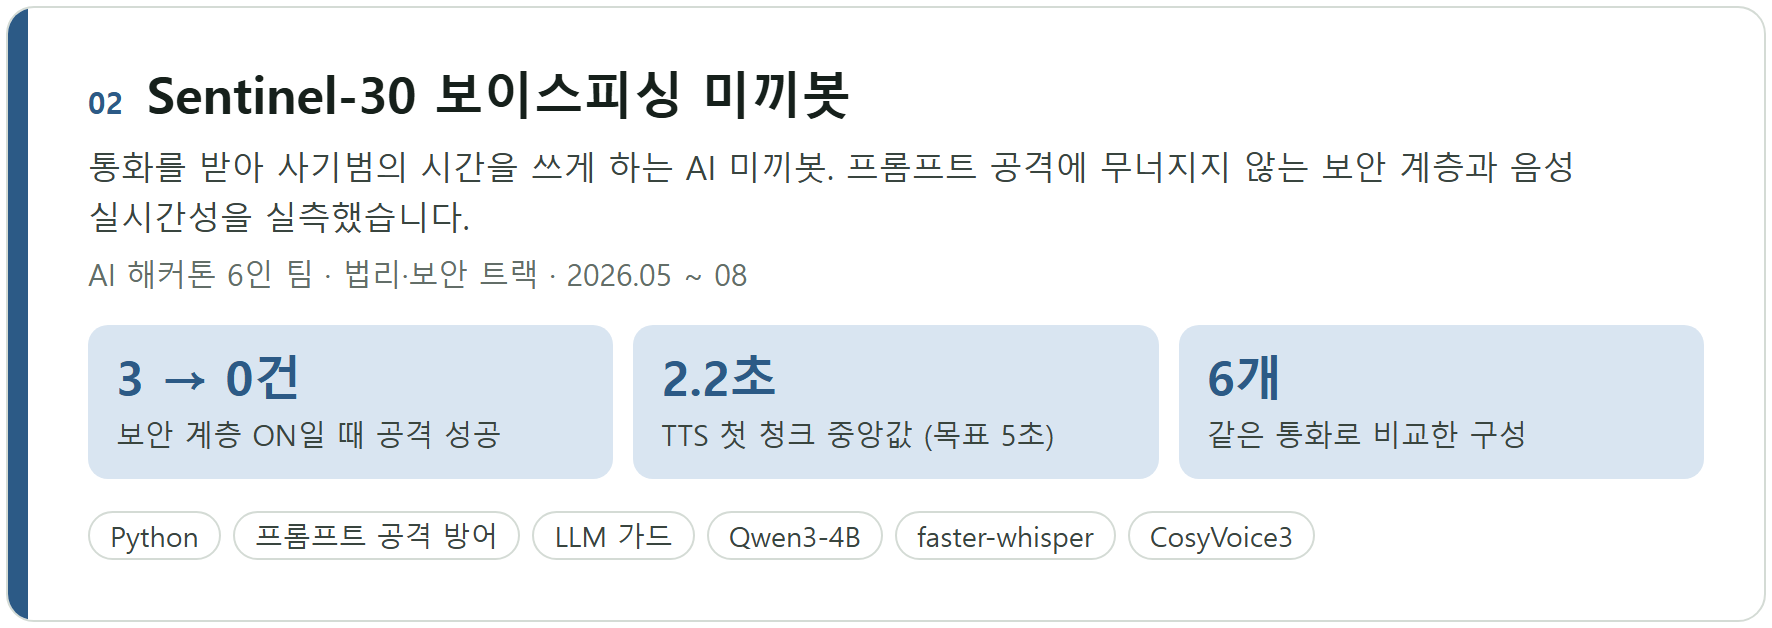
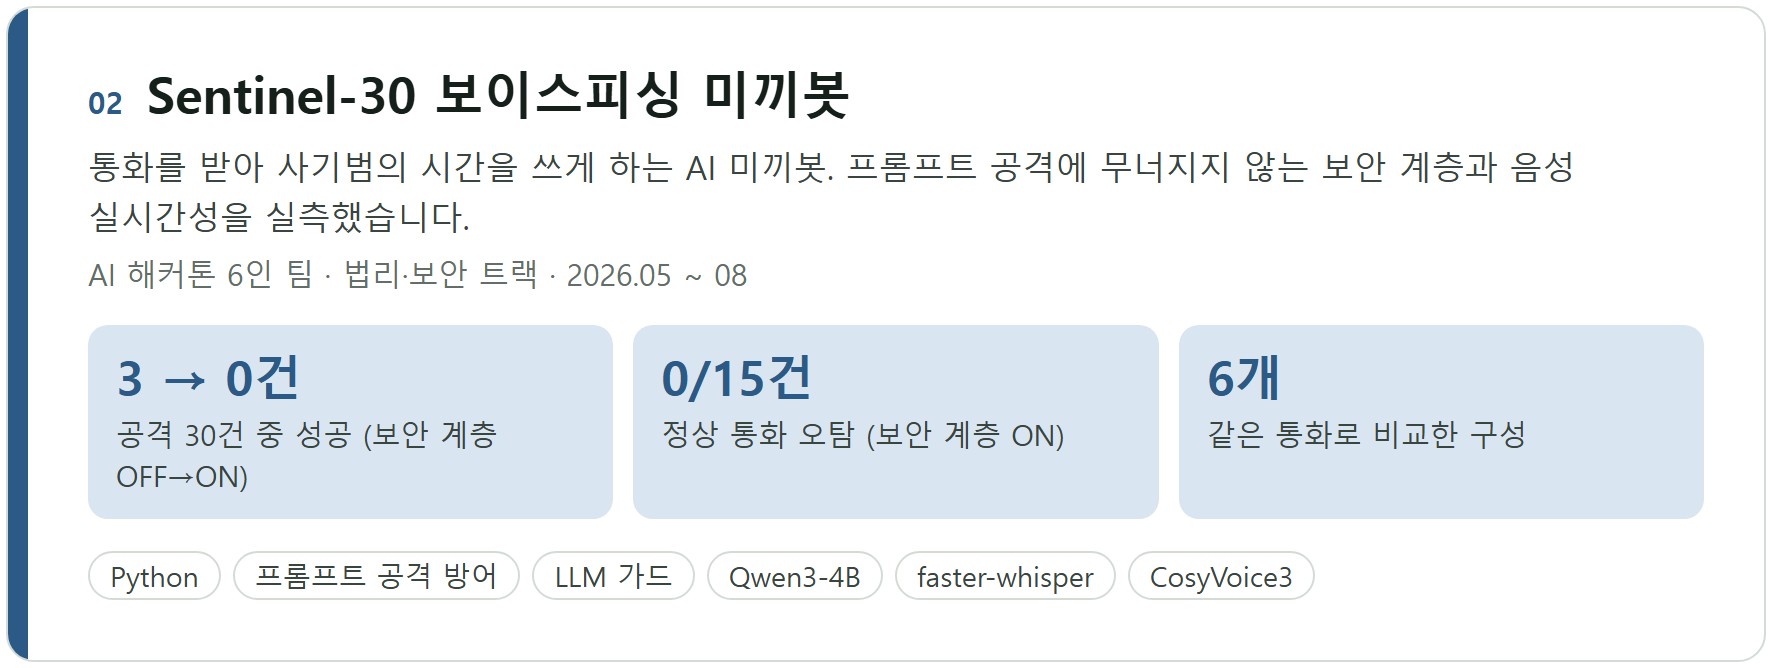
포트폴리오: 수치 서술을 원본과 맞추고 휴대폰용 카드 추가
원본 레포와 수치를 다시 대조해 조건이 어긋난 서술을 고쳤다.
- KeyFin: 라우팅 94.5%는 기존 프롬프트 3,128문항, 96.2%는 새 프롬프트 4,969문항임을 밝힘.
  지연 비교 조건을 NF4+transformers → FP8+vLLM으로 정정, Chronos-2 WAPE 범위 70.17~75.90%
- Sentinel-30 카드: 5초 목표를 달성한 것처럼 읽히던 'TTS 첫 청크 2.2초' 대신 정상 통화 오탐 0/15건,
  공격 성공에 분모(30건) 표기
- CCTV: ReID 결과 JSON 7개 전부 그림에 반영(SOLIDER 최댓값 추가), 기준선과 수치 글자 겹침 해소
- AntHill: 커밋 수 기준일(7월), CI 결과(111개 중 104개 통과) 추가, 카드 설명 정밀화
- Strategy Arena 카드: '0개'를 사전등록 후보 4개 기준(0/4개)으로 명시
- 품질 도구: 카이제곱이 4지선다 기준(A~D 각 25%)임을 바로잡음

화면 폭 600px 이하에서는 세로형 카드(m01~m06)와 칩형 역량 지도를 보여 준다.

diff --git a/src/cards.py b/src/cards.py
@@ -1,7 +1,9 @@
 """포트폴리오 README용 프로젝트 카드와 역량 지도. 880 CSS px로 그려 2배 렌더한다(GitHub 본문 1:1).
+휴대폰용(m0N, skill_map_m)은 400 CSS px 세로형으로 따로 그린다. README는 <picture>로 폭 600px 이하에서 이쪽을 보여 준다.
 
 실행: python cards.py → out/*.html, 이어서 sh render.sh → out/*.png (assets/cards/에 복사)
 """
+import re
 from pathlib import Path
 
 OUT = Path(__file__).parent / "out"
@@ -11,6 +13,7 @@ C = dict(ink="#16201B", ink2="#39453F", muted="#636E68", rule="#D4DBD5", track="
 CSS = f"""*{{box-sizing:border-box}} html,body{{margin:0;background:#fff}}
 body{{font-family:"Malgun Gothic","Apple SD Gothic Neo",sans-serif;color:{C['ink']};-webkit-font-smoothing:antialiased;word-break:keep-all}}
 .card{{width:880px;margin:14px;padding:26px 30px 24px;border:1px solid {C['rule']};border-radius:14px;background:#fff;position:relative;overflow:hidden}}
+.card.m{{width:400px;padding:20px 20px 16px 30px}}
 """
 
 
@@ -56,38 +59,78 @@ def skill_map(name, projects, skills, marks):
     page(name, body)
 
 
+def project_card_m(name, no, title, line, role, period, kpis, tags, color, soft):
+    """휴대폰용 세로 카드: 핵심 수치를 한 줄씩 쌓는다."""
+    k = "".join(
+        f'<div style="display:flex;align-items:baseline;gap:12px;background:{soft};border-radius:9px;padding:9px 12px;margin-bottom:7px">'
+        f'<div style="font-size:21px;font-weight:700;color:{color};white-space:nowrap;min-width:92px">{v}</div>'
+        f'<div style="font-size:15px;color:{C["ink2"]};line-height:1.4">{t}</div></div>' for v, t in kpis)
+    tg = "".join(f'<span style="display:inline-block;font-size:14px;color:{C["ink2"]};border:1px solid {C["rule"]};border-radius:999px;padding:1px 9px;margin:0 5px 5px 0">{t}</span>' for t in tags)
+    body = (f'<div class="card m"><div style="position:absolute;left:0;top:0;bottom:0;width:8px;background:{color}"></div>'
+            f'<div style="font-size:14px;font-weight:700;color:{color}">{no}</div>'
+            f'<div style="font-size:22px;font-weight:700;line-height:1.3;margin-top:2px">{title}</div>'
+            f'<div style="font-size:16px;color:{C["ink2"]};margin:8px 0 6px;line-height:1.5">{line}</div>'
+            f'<div style="font-size:14px;color:{C["muted"]};margin-bottom:12px">{role} · {period}</div>'
+            f'{k}<div style="margin-top:9px">{tg}</div></div>')
+    page(name, body)
+
+
+def skill_map_m(name, projects, skills, marks):
+    """휴대폰용 역량 지도: 프로젝트마다 핵심(채운 칩)·일부(테두리 칩) 역량을 나열한다."""
+    rows = ""
+    for p, color in projects:
+        chips = ""
+        for lvl in (2, 1):
+            for sk in skills:
+                if marks.get((p, sk), 0) == lvl:
+                    label = re.sub(r"<br>(?!·)", " ", sk).replace("<br>", "")
+                    style = (f"background:{color};color:#fff;border:1.5px solid {color}" if lvl == 2 else
+                             f"background:#fff;color:{C['ink2']};border:1.5px solid {color}")
+                    chips += f'<span style="display:inline-block;font-size:13.5px;border-radius:999px;padding:2px 10px;margin:0 5px 6px 0;{style}">{label}</span>'
+        rows += (f'<div style="padding:10px 0 4px;border-top:1px solid {C["track"]}"><div style="font-size:16px;font-weight:700;margin-bottom:7px">'
+                 f'<span style="display:inline-block;width:10px;height:10px;border-radius:2px;background:{color};margin-right:8px"></span>{p}</div>{chips}</div>')
+    body = (f'<div class="card m" style="padding-left:20px"><div style="font-size:21px;font-weight:700;margin-bottom:4px">프로젝트별로 다룬 역량</div>'
+            f'<div style="font-size:14px;color:{C["muted"]};margin-bottom:12px">채운 칩은 핵심으로 다룬 역량, 테두리 칩은 일부 다룬 역량입니다.</div>{rows}</div>')
+    page(name, body)
+
 
 # ---------------------------------------------------------------- 프로젝트 카드
-project_card("p01", "01", "KeyFin AI 코칭",
-             "봉투 예산 앱의 AI 금융 코치. LLM은 의도만 고르고 금액·확률·기간은 시뮬레이터와 서버 코드가 계산합니다.",
-             "팀 프로젝트 · AI 코칭 API 전담", "2026.08 ~ 09",
-             [("9.1배", "동시 8건 응답 49.07초 → 5.40초"), ("96.2%", "운영 모델 실측 라우팅 정확도"), ("2,519개", "AI 코칭 테스트 통과")],
-             ["Python", "FastAPI", "vLLM", "Qwen3.8-27B FP8", "의도 라우팅", "대규모 검증"], C["accent"], C["accent_soft"])
-project_card("p06", "06", "AI 결과 품질 게이트와 운영 설계",
-             "AI가 만든 문항의 AI 티를 규칙으로 잡는 검증기와, 생성형 AI를 업무에 붙일 때의 경계·역할·루프 설계 문서입니다.",
-             "개인 프로젝트", "2026.05 ~ 08",
-             [("11개", "보정한 HARD·SOFT 규칙"), ("10/10", "공식 샘플의 HARD 통과"), ("15개", "운영 구조로 정리한 프로젝트")],
-             ["Python", "휴리스틱 검증", "카이제곱", "하네스 설계", "Mermaid"], "#5B5F97", "#E3E4F1")
-project_card("p02", "02", "Sentinel-30 보이스피싱 미끼봇",
-             "통화를 받아 사기범의 시간을 쓰게 하는 AI 미끼봇. 프롬프트 공격에 무너지지 않는 보안 계층과 음성 실시간성을 실측했습니다.",
-             "AI 해커톤 6인 팀 · 법리·보안 트랙", "2026.05 ~ 08",
-             [("3 → 0건", "보안 계층 ON일 때 공격 성공"), ("2.2초", "TTS 첫 청크 중앙값 (목표 5초)"), ("6개", "같은 통화로 비교한 구성")],
-             ["Python", "프롬프트 공격 방어", "LLM 가드", "Qwen3-4B", "faster-whisper", "CosyVoice3"], C["info"], C["info_soft"])
-project_card("p03", "03", "CCTV 후보 모델 선정과 승격 게이트",
-             "모델 점수 하나 대신 역할별 후보를 같은 조건으로 비교하고, 승격은 증거를 검사하는 게이트 코드가 정합니다.",
-             "AIoT 팀 프로젝트 · AI 모델 선정 담당", "2026.07 ~ 08",
-             [("6개", "같은 조건으로 비교한 ReID 구성"), ("0건", "증거 없이 승격된 후보"), ("8,949개", "SHA-256 검증 후 보존한 파일")],
-             ["PyTorch", "SOLIDER", "CLIP ViT-L/14", "ReID", "지식 증류", "승격 게이트"], C["warn"], C["warn_soft"])
-project_card("p04", "04", "AntHill 주식 판단 트레이닝",
-             "AI가 정답을 알려주지 않는 투자 판단 훈련 서비스. 규칙 엔진이 방향을 정하고 LLM은 근거 문장만 씁니다.",
-             "개인 중심 · 커밋 156건 중 140건 작성", "2026.05 ~ 07",
-             [("3계층", "방향은 규칙, 설명은 LLM"), ("87.2%", "직접 라벨링 172건 감성 정확도"), ("14,473개", "매핑한 국내·해외 종목")],
-             ["Django 5.2", "DRF", "SimpleJWT", "OpenRouter", "Canvas 2D", "Playwright"], C["tan"], "#F1E6D6")
-project_card("p05", "05", "Strategy Arena 백테스트 검증",
-             "백테스트 곡선이 성과로 읽히지 않도록 사전등록, 시간순 홀드아웃, 비용, 시행 횟수 보정을 얹은 전략 빌더입니다.",
-             "개인 프로젝트", "2026.07 ~ 08",
-             [("19개", "후보마다 거치는 검증 게이트"), ("0개", "비용 후 신뢰할 승자"), ("40/40", "데이터 절단 버그 교정 후 정합 종목")],
-             ["Python", "Flask", "pandas", "사전등록", "홀드아웃", "DSR"], "#4E6E8E", "#DFE7EF")
+# (이름, 번호, 제목, 한 줄 소개, 역할, 기간, 핵심 수치 3개, 태그, 색, 옅은 색)
+CARDS = [
+    ("p01", "01", "KeyFin AI 코칭",
+     "봉투 예산 앱의 AI 금융 코치. LLM은 의도만 고르고 금액·확률·기간은 시뮬레이터와 서버 코드가 계산합니다.",
+     "팀 프로젝트 · AI 코칭 API 전담", "2026.08 ~ 09",
+     [("9.1배", "동시 8건 응답 49.07초 → 5.40초"), ("96.2%", "운영 모델 실측 라우팅 정확도"), ("2,519개", "AI 코칭 테스트 통과")],
+     ["Python", "FastAPI", "vLLM", "Qwen3.8-27B FP8", "의도 라우팅", "대규모 검증"], C["accent"], C["accent_soft"]),
+    ("p06", "06", "AI 결과 품질 게이트와 운영 설계",
+     "AI가 만든 문항의 AI 티를 규칙으로 잡는 검증기와, 생성형 AI를 업무에 붙일 때의 경계·역할·루프 설계 문서입니다.",
+     "개인 프로젝트", "2026.05 ~ 08",
+     [("11개", "보정한 HARD·SOFT 규칙"), ("10/10", "공식 샘플의 HARD 통과"), ("15개", "운영 구조로 정리한 프로젝트")],
+     ["Python", "휴리스틱 검증", "카이제곱", "하네스 설계", "Mermaid"], "#5B5F97", "#E3E4F1"),
+    ("p02", "02", "Sentinel-30 보이스피싱 미끼봇",
+     "통화를 받아 사기범의 시간을 쓰게 하는 AI 미끼봇. 프롬프트 공격에 무너지지 않는 보안 계층과 음성 실시간성을 실측했습니다.",
+     "AI 해커톤 6인 팀 · 법리·보안 트랙", "2026.05 ~ 08",
+     [("3 → 0건", "공격 30건 중 성공 (보안 계층 OFF→ON)"), ("0/15건", "정상 통화 오탐 (보안 계층 ON)"), ("6개", "같은 통화로 비교한 구성")],
+     ["Python", "프롬프트 공격 방어", "LLM 가드", "Qwen3-4B", "faster-whisper", "CosyVoice3"], C["info"], C["info_soft"]),
+    ("p03", "03", "CCTV 후보 모델 선정과 승격 게이트",
+     "모델 점수 하나 대신 역할별 후보를 같은 조건으로 비교하고, 승격은 증거를 검사하는 게이트 코드가 정합니다.",
+     "AIoT 팀 프로젝트 · AI 모델 선정 담당", "2026.07 ~ 08",
+     [("7개", "같은 조건으로 비교한 ReID 구성"), ("0건", "증거 없이 승격된 후보"), ("8,949개", "SHA-256 검증 후 보존한 파일")],
+     ["PyTorch", "SOLIDER", "CLIP ViT-L/14", "ReID", "지식 증류", "승격 게이트"], C["warn"], C["warn_soft"]),
+    ("p04", "04", "AntHill 주식 판단 트레이닝",
+     "AI가 정답을 알려주지 않는 투자 판단 훈련 서비스. 규칙 엔진이 방향을 정하고 LLM은 근거 문장만 씁니다.",
+     "개인 중심 · 커밋 156건 중 140건 작성(7월 기준)", "2026.05 ~ 07",
+     [("3계층", "규칙이 방향, LLM이 설명, 실패하면 규칙 문장"), ("87.2%", "직접 라벨링 172건 감성 정확도 (보정 표본 포함)"), ("14,473개", "적재한 국내·해외 종목")],
+     ["Django 5.2", "DRF", "SimpleJWT", "OpenRouter", "Canvas 2D", "Playwright"], C["tan"], "#F1E6D6"),
+    ("p05", "05", "Strategy Arena 백테스트 검증",
+     "백테스트 곡선이 성과로 읽히지 않도록 사전등록, 시간순 홀드아웃, 비용, 시행 횟수 보정을 얹은 전략 빌더입니다.",
+     "개인 프로젝트", "2026.07 ~ 08",
+     [("19개", "후보마다 거치는 검증 게이트"), ("0/4개", "사전등록 후보 중 비용 반영 후 통과"), ("40/40", "데이터 절단 버그 교정 후 정합 종목")],
+     ["Python", "Flask", "pandas", "사전등록", "홀드아웃", "DSR"], "#4E6E8E", "#DFE7EF"),
+]
+for c in CARDS:
+    project_card(*c)
+    project_card_m("m" + c[0][1:], *c[1:])
 
 PJ = [("KeyFin AI 코칭", C["accent"]), ("Sentinel-30", C["info"]), ("CCTV 모델 선정", C["warn"]), ("AntHill", C["tan"]),
       ("Strategy Arena", "#4E6E8E"), ("AI 품질 게이트", "#5B5F97")]
@@ -97,4 +140,5 @@ for pj, vals in zip([p for p, _ in PJ], [(2, 2, 2, 1, 2, 0), (2, 2, 1, 0, 1, 2),
     for sk, v in zip(SK, vals):
         M[(pj, sk)] = v
 skill_map("skill_map", PJ, SK, M)
+skill_map_m("skill_map_m", PJ, SK, M)
 print("html:", len(list(OUT.glob("*.html"))))

diff --git a/src/figs.py b/src/figs.py
@@ -90,24 +90,27 @@ page("c_flow", card("모델 점수 대신 증거로 승격을 정하는 흐름",
                     "역할마다 후보를 따로 비교하고, 승격은 사람이 표를 읽는 대신 게이트 코드가 증거로 판정합니다.", canvas(820, 382, n, s)))
 
 # c2. strict ReID
-RE = [("SOLIDER Top-3 평균", 0.47, 0.78, True), ("SOLIDER Top-5 평균", 0.45, 0.76, False), ("SOLIDER 전체 평균", 0.42, 0.84, False),
+RE = [("SOLIDER Top-3 평균", 0.47, 0.78, True), ("SOLIDER 최댓값", 0.46, 0.78, False), ("SOLIDER Top-5 평균", 0.45, 0.76, False), ("SOLIDER 전체 평균", 0.42, 0.84, False),
       ("SigLIP2", 0.29, 0.64, False), ("CLIP ViT-L/14", 0.21, 0.61, False), ("DINOv2", 0.19, 0.60, False)]
 X0, PW = 190, 560
 xv = lambda v: X0 + v * PW
 s = [ln(xv(g), 40, xv(g), 40 + len(RE) * 62, w=1, end=False).replace(C["ink2"], C["track"]) for g in (0, 0.25, 0.5, 0.75, 1.0)]
 s += [tx(xv(g), 64 + len(RE) * 62, f"{g:g}", col=C["muted"], size=14) for g in (0, 0.25, 0.5, 0.75, 1.0)]
+# 기준선을 먼저 그려 수치 글자가 선 위에 오게 한다
+s += [ln(xv(0.85), 30, xv(0.85), 40 + len(RE) * 62, "warn", 2.5, dash=True, end=False).replace(C["warn"], C["bad"]),
+      tx(xv(0.85), 22, "Rank-1 기준 0.85", col=C["bad"], size=14, bold=True, anchor="end"),
+      ln(xv(0.95), 30, xv(0.95), 40 + len(RE) * 62, "warn", 2.5, dash=True, end=False),
+      tx(xv(0.95) + 4, 22, "Recall@5 0.95", col=C["warn"], size=14, bold=True, anchor="start")]
 for i, (lab, r1, r5, best) in enumerate(RE):
     y = 48 + i * 62
     s.append(tx(X0 - 14, y + 26, lab, col=C["ink"], size=15.5, anchor="end", bold=best))
     s.append(f'<rect x="{X0}" y="{y}" width="{r1 * PW:.1f}" height="22" rx="4" fill="{C["info"]}"/>')
     s.append(f'<rect x="{X0}" y="{y + 24}" width="{r5 * PW:.1f}" height="22" rx="4" fill="#9DBBD9"/>')
     s.append(tx(xv(r1) + 8, y + 17, f"{r1:.2f}", col=C["info"], size=14.5, anchor="start", bold=True))
-    s.append(tx(xv(r5) + 8, y + 41, f"{r5:.2f}", col=C["ink2"], size=14.5, anchor="start", bold=True))
-s += [ln(xv(0.85), 30, xv(0.85), 40 + len(RE) * 62, "warn", 2.5, dash=True, end=False).replace(C["warn"], C["bad"]),
-      tx(xv(0.85), 22, "Rank-1 기준 0.85", col=C["bad"], size=14, bold=True, anchor="end"),
-      ln(xv(0.95), 30, xv(0.95), 40 + len(RE) * 62, "warn", 2.5, dash=True, end=False),
-      tx(xv(0.95) + 4, 22, "Recall@5 0.95", col=C["warn"], size=14, bold=True, anchor="start")]
-page("c_reid", card("strict ReID 6개 구성: 모두 승격 기준 미달",
+    # 막대 끝이 기준선(0.85)에 가까우면 수치를 막대 안쪽 끝에 넣어 선과 겹치지 않게 한다
+    s.append(tx(xv(r5) - 8, y + 41, f"{r5:.2f}", col=C["ink"], size=14.5, anchor="end", bold=True, halo=False) if r5 >= 0.7 else
+             tx(xv(r5) + 8, y + 41, f"{r5:.2f}", col=C["ink2"], size=14.5, anchor="start", bold=True))
+page("c_reid", card(f"strict ReID {len(RE)}개 구성: 모두 승격 기준 미달",
                     "CHIRLA 공개 proxy, 같은 카메라·같은 시퀀스 gallery를 빼고 쟀습니다(query 95개, gallery identity 11개).",
                     legend([("Rank-1", C["info"]), ("Recall@5", "#9DBBD9")]) + canvas(820, 76 + len(RE) * 62, [], s),
                     "가장 높은 SOLIDER Top-3 평균(Rank-1 0.4737)도 기준에 못 미쳐 자동 동일인 매칭은 막고, Top-K 후보 검색에만 쓰기로 했습니다."))

diff --git a/README.md b/README.md
@@ -5,33 +5,33 @@
 - 관심 직무: 금융 IT·디지털 ICT, AI·데이터 제품 엔지니어, AI 기반 서비스 기획
 - 주로 쓰는 기술: Python, FastAPI·Django·Flask, SQL, vLLM, PyTorch, LLM 라우팅과 평가 설계
 
-![프로젝트별로 다룬 역량](assets/cards/skill_map.png)
+<picture><source media="(max-width: 600px)" srcset="https://raw.githubusercontent.com/tttksj404/portfolio/main/assets/cards/skill_map_m.png"><img alt="프로젝트별로 다룬 역량" src="assets/cards/skill_map.png" width="100%"></picture>
 
 ## 사례
 
 카드를 누르면 사례 문서로 이동합니다. 문서는 문제, 내가 한 일과 설계 결정, 결과와 검증, 한계 순서로 정리했습니다.
 
-[![KeyFin AI 코칭](assets/cards/p01.png)](projects/01-keyfin-ai-coaching.md)
+<a href="projects/01-keyfin-ai-coaching.md"><picture><source media="(max-width: 600px)" srcset="https://raw.githubusercontent.com/tttksj404/portfolio/main/assets/cards/m01.png"><img alt="KeyFin AI 코칭" src="assets/cards/p01.png" width="100%"></picture></a>
 
 [사례 문서](projects/01-keyfin-ai-coaching.md) · [팀 저장소 (`ai/` 담당)](https://github.com/tttksj404/KeyFin)
 
-[![Sentinel-30 보이스피싱 미끼봇](assets/cards/p02.png)](projects/02-sentinel-30.md)
+<a href="projects/02-sentinel-30.md"><picture><source media="(max-width: 600px)" srcset="https://raw.githubusercontent.com/tttksj404/portfolio/main/assets/cards/m02.png"><img alt="Sentinel-30 보이스피싱 미끼봇" src="assets/cards/p02.png" width="100%"></picture></a>
 
 [사례 문서](projects/02-sentinel-30.md) · [저장소](https://github.com/tttksj404/AI-)
 
-[![CCTV 후보 모델 선정과 승격 게이트](assets/cards/p03.png)](projects/03-cctv-model-selection.md)
+<a href="projects/03-cctv-model-selection.md"><picture><source media="(max-width: 600px)" srcset="https://raw.githubusercontent.com/tttksj404/portfolio/main/assets/cards/m03.png"><img alt="CCTV 후보 모델 선정과 승격 게이트" src="assets/cards/p03.png" width="100%"></picture></a>
 
 [사례 문서](projects/03-cctv-model-selection.md) · [저장소](https://github.com/tttksj404/cctv-model-selection-lab)
 
-[![AntHill 주식 판단 트레이닝](assets/cards/p04.png)](projects/04-anthill-stockpulse.md)
+<a href="projects/04-anthill-stockpulse.md"><picture><source media="(max-width: 600px)" srcset="https://raw.githubusercontent.com/tttksj404/portfolio/main/assets/cards/m04.png"><img alt="AntHill 주식 판단 트레이닝" src="assets/cards/p04.png" width="100%"></picture></a>
 
 [사례 문서](projects/04-anthill-stockpulse.md) · 저장소 비공개 (요청 시 공유)
 
-[![Strategy Arena 백테스트 검증](assets/cards/p05.png)](projects/05-strategy-arena.md)
+<a href="projects/05-strategy-arena.md"><picture><source media="(max-width: 600px)" srcset="https://raw.githubusercontent.com/tttksj404/portfolio/main/assets/cards/m05.png"><img alt="Strategy Arena 백테스트 검증" src="assets/cards/p05.png" width="100%"></picture></a>
 
 [사례 문서](projects/05-strategy-arena.md) · [저장소](https://github.com/tttksj404/strategy-arena)
 
-[![AI 결과 품질 게이트와 운영 설계](assets/cards/p06.png)](projects/06-ai-quality-tools.md)
+<a href="projects/06-ai-quality-tools.md"><picture><source media="(max-width: 600px)" srcset="https://raw.githubusercontent.com/tttksj404/portfolio/main/assets/cards/m06.png"><img alt="AI 결과 품질 게이트와 운영 설계" src="assets/cards/p06.png" width="100%"></picture></a>
 
 [사례 문서](projects/06-ai-quality-tools.md) · [quiz-validator](https://github.com/tttksj404/quiz-validator) · [ai-harness-loop-orchestration](https://github.com/tttksj404/ai-harness-loop-orchestration)
 

diff --git a/projects/04-anthill-stockpulse.md b/projects/04-anthill-stockpulse.md
@@ -6,8 +6,8 @@
 
 | 항목 | 내용 |
 |---|---|
-| 기간 | 2026-05-08 ~ 2026-07-04 (원형 5/8~6/5, AntHill 6/5~7/4. 저장소 생성일·마지막 푸시 기준) |
-| 형태 | 개인 중심. 원형 저장소는 단독 커밋 7건. AntHill는 커밋 156건 중 140건을 직접 작성했고, 협업자 1명이 성능 개선·Render 배포 준비·훈련 라운드 개선 16건을 맡았다. |
+| 기간 | 2026-05-08 ~ 2026-07-04 (원형 5/8~6/5, AntHill 6/5~7/4. 저장소 생성일·7월 4일 마지막 기능 커밋 기준) |
+| 형태 | 개인 중심(7월 4일 기준). 원형 저장소는 단독 커밋 7건. AntHill은 커밋 156건 중 140건을 직접 작성했고, 협업자 1명이 성능 개선·Render 배포 준비·훈련 라운드 개선 16건을 맡았다. |
 | 내 역할 | 기획, 뉴스 수집·점수 파이프라인, AI 기준선 엔진, LLM 연동, 훈련·복기 화면, 테스트, 고지 문구 |
 | 핵심 기술 | Python · Django 5.2 · DRF + SimpleJWT(HttpOnly 쿠키) · OpenRouter LLM(DeepSeek V4 Flash) · Canvas 2D 자작 차트 · Playwright |
 | 대표 결과 | 규칙 엔진이 방향을 정하고 LLM은 근거 문장만 쓰는 3계층 구조 · 점수마다 `evidence_trace` 공개 · API 키 없이도 전체 흐름 동작 · 직접 라벨링한 뉴스 172건에서 감성 정확도 87.2%(보정 표본 포함) |
@@ -36,7 +36,7 @@
 
 | 항목 | 결과 | 근거 |
 |---|---|---|
-| 자동 테스트 | 테스트 111개 정의. 외부 네트워크를 차단한 로컬 실행(Windows, CI와 같은 `DJANGO_DEBUG=1`)에서 101개 통과, 10개 실패 | `pulse/tests.py` |
+| 자동 테스트 | 테스트 111개 정의. 외부 네트워크를 차단한 로컬 실행(Windows, CI와 같은 `DJANGO_DEBUG=1`)에서 101개 통과, 10개 실패. GitHub Actions(Linux, 2026-10-06)에서는 104개 통과, 7개 실패 | `pulse/tests.py` |
 | 감성 분류 | 직접 라벨링 172건 평가, 전체 정확도 87.21%, 방향성 신호만 보면 97.52% | `data/runs/20260515T050306Z/review/expanded_labeling_validation_report.md` (원형) |
 | 감성값 사용 제한 | 뉴스 350건 중 방향 신호 60건, 판단 보류 57건, 시장 맥락용 163건, 개별 점수 제외 70건 | `data/runs/20260515T050306Z/review/remaining_risk_closure_report.md` (원형) |
 | 안전 동작 | HttpOnly 쿠키, CSRF 필수, 데모 계정 격리, 수집 작업 중복 거부 테스트는 같은 로컬 실행에서 통과. 미래 뉴스 차단 테스트는 훈련 케이스가 생성되지 않아 오류가 났고 원인 확인 전이다. | `pulse/tests.py` |

diff --git a/projects/03-cctv-model-selection.md b/projects/03-cctv-model-selection.md
@@ -6,7 +6,7 @@
 
 | 항목 | 내용 |
 | --- | --- |
-| 기간 | 2026년 7월 하순 ~ 8월 중순 (실험 결과 파일 7월 23일 ~ 8월 10일, 공개 커밋 7월 30일 ~ 8월 14일) |
+| 기간 | 2026년 7월 하순 ~ 8월 중순 (실험 결과 파일 7월 23일 ~ 8월 10일, 공개 커밋 7월 30일 ~ 8월 14일, 10월 6일 그림 파일 복구 커밋 제외) |
 | 형태 | AIoT 팀 프로젝트(단일 CCTV 위험관제 MVP)의 AI 파트. 이 저장소의 범위는 후보 모델 비교 실험, 평가 프로토콜, 승격 gate 코드, 실험 자산 보존이다. 엣지 장치, 이벤트 백엔드, 대시보드는 포함하지 않는다. |
 | 핵심 기술 | SOLIDER Swin-B(속성 PAR, ReID), CLIP ViT-L/14 파인튜닝·지식 증류, strict ReID 평가, SHA-256으로 증거 파일을 다시 검증하는 Python gate |
 | 대표 결과 | strict ReID 최고 구성(SOLIDER Top-3 평균)이 Rank-1 0.4737, Recall@5 0.7789로 자동 매칭 기준(0.85, 0.95)에 못 미쳤다. 자동 동일인 매칭은 `BLOCKED`, Top-K 후보 검색에만 허용했다. proxy 점수만 있는 후보는 gate가 `NOT_APPROVED`(종료 코드 2)로 막고, 단위 테스트 6개가 통과한다(직접 재실행). |
@@ -36,9 +36,9 @@ AI 파트에서 네 가지를 맡았다. 속성(CLIP 파인튜닝, SOLIDER PA he
 
 ### strict ReID (CHIRLA 공개 proxy, query 95개, gallery identity 11개)
 
-![strict ReID 6개 구성과 승격 기준](../assets/cctv/c_reid.png)
+![strict ReID 7개 구성과 승격 기준](../assets/cctv/c_reid.png)
 
-*저장소 결과 JSON 6개의 수치로 다시 그린 그림이다. 모든 막대가 기준선 아래에 있다.*
+*저장소 결과 JSON 7개의 수치로 다시 그린 그림이다. 모든 막대가 기준선 아래에 있다.*
 
 - 최고 Rank-1은 SOLIDER Top-3 평균의 0.4737(Recall@5 0.7789)이다. SOLIDER 전체 평균은 Recall@5가 0.8421로 더 높지만 Rank-1이 0.4211이어서, Rank-1이 가장 높은 Top-3 평균을 후보 검색기로 골랐다(`.../experiments/results/chirla_solider_official_strict_hflip_*.json`).
 - CLIP(Rank-1 0.2105), SigLIP2(0.2947), DINOv2(0.1895)는 SOLIDER보다 낮았다. 95% 신뢰구간은 CLIP(0.14~0.29)과 DINOv2(0.12~0.27)가 SOLIDER Top-3(0.38~0.57)와 겹치지 않고 SigLIP2(0.21~0.39)는 일부 겹친다.

diff --git a/projects/01-keyfin-ai-coaching.md b/projects/01-keyfin-ai-coaching.md
@@ -7,7 +7,7 @@
 | 기간 | 2026.08.18 ~ 09.29 (SSAFY 2학기 핀테크 팀 프로젝트) |
 | 형태 | 팀 프로젝트. 본인 담당은 AI 코칭 API(`ai/` 전체). 앱·백엔드·FDT 엔진은 팀원 담당 |
 | 핵심 기술 | Python 3.12, FastAPI, Pydantic 2, SQLite, vLLM 0.19, Qwen3.8-27B FP8, NVIDIA L40S |
-| 대표 결과 | 동시 8건 응답 p50 49.07초 → 5.40초(9.1배), 실모델 라우팅 정확도 94.5% → 96.2% |
+| 대표 결과 | 동시 8건 응답 p50 49.07초 → 5.40초(9.1배), 실모델 라우팅 정확도 96.2%(4,969문항) |
 | 규모 | AI 코칭 커밋 146개, develop에 병합된 AI MR 24건, 테스트 856 → 2,519개 + e2e 41개 |
 
 ## 무엇을 하는 서비스인가
@@ -56,11 +56,11 @@
 
 | 항목 | 결과 |
 | --- | --- |
-| 응답 속도 | 동시 8건 p50 49.07초 → 5.40초 (FP8 + vLLM, 결정론 경로 확대) |
+| 응답 속도 | 동시 8건 p50 49.07초 → 5.40초 (NF4 + transformers → FP8 + vLLM) |
 | 모델 호출 | 모델을 부르는 질문 23.7% → 16.5% (570문항) |
-| 라우팅 정확도 | 94.5% → 96.2% (운영 모델 실측, 4,969문항, 엄격 기준) |
+| 라우팅 정확도 | 새 프롬프트 96.2%(4,969문항). 기존 프롬프트는 기존 모드로 표현할 수 있는 3,128문항에서 94.5%였다. 운영 모델 실측, 엄격 기준 |
 | 의도 검증 | 재생 검증에서 라우터가 맞았는데 답이 틀린 문항 475 → 448, 대화 흐름 오답 45 → 13 |
-| 예측 엔진 비교 | 합성 336사례 WAPE: FDT 61.42%, Chronos-2 70.17~72.72%, TimesFM 86.83% → 신경망 예측기로 바꾸지 않음 |
+| 예측 엔진 비교 | 합성 336사례 WAPE: FDT 61.42%, Chronos-2 70.17~75.90%(추가학습 여부·집계 방식별), TimesFM 86.83% → 신경망 예측기로 바꾸지 않음 |
 | 품질 | AI 코칭 테스트 2,519개 + e2e 41개 통과. 잔액·예측 분리 수정은 뮤테이션 6/6을 테스트가 모두 잡음 |
 
 ![수만 가지 경우의 수 검증에서 줄어든 오답](../assets/keyfin/sweep_reduction.png)

diff --git a/projects/06-ai-quality-tools.md b/projects/06-ai-quality-tools.md
@@ -21,7 +21,7 @@
 | HARD 7개 | 금지 문장 틀 4종, 금지 어휘 15개(활용형 포함), 허용 시작 패턴 5종, 선택지 길이 표준편차 8 이상, 최대-최소 길이 차 20 이상, em dash 1개 이하, 해설의 요약 문구 금지 | 하나라도 실패하면 문항 탈락 (종료 코드 1) |
 | SOFT 4개 | 구체 수치 2개 이상, 산업 맥락, 혼동하기 쉬운 개념쌍(SQS/SNS 등 10세트), 해설의 공식 문서 링크 | 통과 비율을 0~100점 품질 점수로 환산 |
 
-실행 모드는 단일 문항, `--batch` 디렉터리, `--calibrate` 세 가지다. `answer_distribution.py`는 정답 문자(A~E)의 분포를 카이제곱(임계값 7.81, 자유도 3, p=0.05)으로 점검해 문항 한 개가 아니라 세트 단위 쏠림도 본다. 새 도메인은 설정 파일을 복사하고 앵커 문항 10개를 모은 뒤, 앵커가 HARD를 전부 통과할 때까지 조정하는 순서로 추가한다.
+실행 모드는 단일 문항, `--batch` 디렉터리, `--calibrate` 세 가지다. `answer_distribution.py`는 정답 문자 분포를 4지선다 기준(A~D 각 25%) 카이제곱(임계값 7.81, 자유도 3, p=0.05)으로 점검해 문항 한 개가 아니라 세트 단위 쏠림도 본다. 새 도메인은 설정 파일을 복사하고 앵커 문항 10개를 모은 뒤, 앵커가 HARD를 전부 통과할 때까지 조정하는 순서로 추가한다.
 
 **보정 방법과 결과.** 기준점은 AWS가 공개한 SAA-C03 공식 샘플 10문항이다(`anchor_aws_saa.json`, 수집일 2026-05-12). 사람이 쓴 공식 문항이 HARD 규칙에 걸리면 규칙이 과한 것이므로, 임계값을 조정하거나 그 규칙을 HARD에서 SOFT로 옮긴다(`quiz_validator.py`의 `--calibrate` 안내 문구). 결과는 다음과 같다.
 
